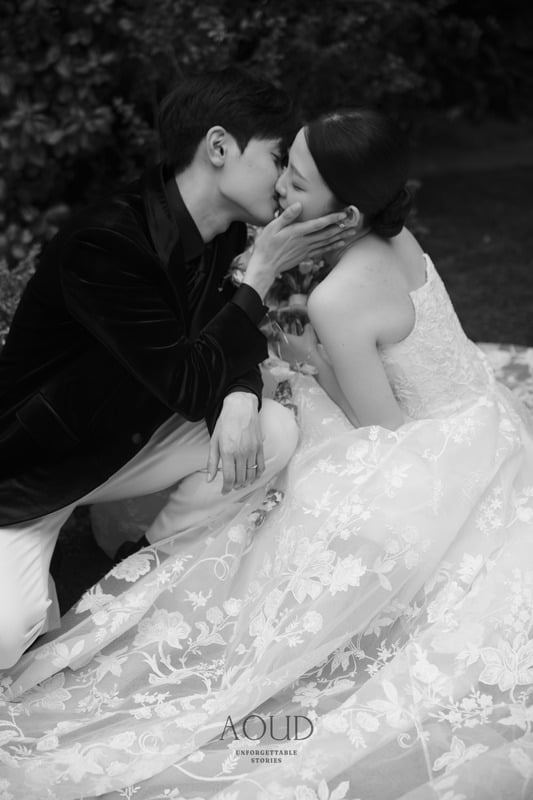
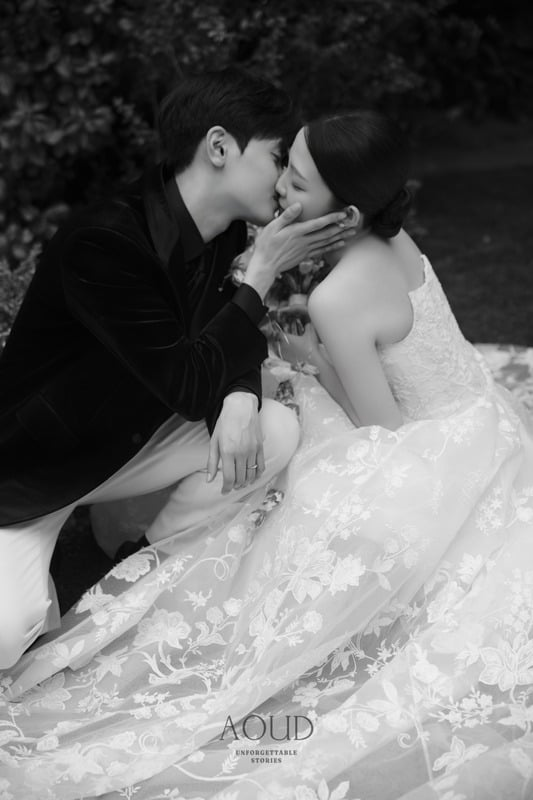
봉투 사진 2장을 클라이언트 갱신본으로 + INFORMATION 줄바꿈 정리 (JQ 요청)
클라이언트가 원본 Canva 사이트의 봉투(히어로)에 새 흑백 사진 2장을 넣었다
(액자: 키스, 폴라로이드: 웃는 컷). 런타임 DOM을 원본과 나란히 떠서 비교하면
바뀐 것은 이미지 노드 18개 중 액자 사진과 폴라로이드 사진 딱 둘 —
나머지 해시는 전부 동일하다. 미러의 봉투 마크업은 손대지 않고, 참조되는
기존 파일 자리에 원본 바이트 그대로 덮어쓴다(파일명 = 참조라 코드 변경 0):
- 2ba15ad4….jpg ← 2cd258c1….jpg (액자)
- b5583607….jpg ← 1e959628….jpg (폴라로이드)
원본도 533×800으로 내보내지만 표시 크기(90×135, 114×162 CSS px)에는 충분.
클라이언트가 액자 안 배율도 미세 조정했는데(원본이 약간 더 줌아웃) 우리
마크업은 옛 배치라 크롭이 조금 다르다 — 보기에 자연스러워 그대로 둔다.

INFORMATION 카드는 문장이 화면 폭에 따라 아무 데서나 접히던 것을 JQ님이
지정한 줄 단위로 고정한다: 각 카드 3줄(안내 2줄 + 당부 1줄). 마지막 문장
"모바일 청첩장을 통해 참석여부를 꼭 응답해주세요 !"는 303px라 375px 이하
기기에서는 물리적으로 한 줄이 안 되므로, lines()에 어절 묶음(배열이면
inline-block 스팬)을 추가해 접히더라도 "모바일 청첩장을 통해 /
참석여부를…" 어절 경계에서만 접히게 했다. 320~430 폭 실측 확인.

relayout_test 53건 × Chromium·WebKit 로컬 통과.

diff --git a/custom/relayout.js b/custom/relayout.js
@@ -138,11 +138,19 @@
   var INFO_CARDS = [
     {
       title: '식사 안내',
-      lines: ['코스요리가 좌석에 제공되는 동시예식으로 진행됩니다.', '모바일 청첩장을 통해 참석여부를 꼭 응답해주세요 !']
+      lines: [
+        '코스요리가 좌석에 제공되는',
+        '동시예식으로 진행됩니다.',
+        ['모바일 청첩장을 통해', '참석여부를 꼭 응답해주세요 !']
+      ]
     },
     {
       title: '답례품 안내',
-      lines: ['식사를 못하고 가시는 분들에게는 소정의 답례품이 준비되어있습니다.', '접수처에 꼭 알려주세요!']
+      lines: [
+        '식사를 못하고 가시는 분들에게는',
+        '소정의 답례품이 준비되어있습니다.',
+        '접수처에 꼭 알려주세요 !'
+      ]
     }
   ];
 
@@ -235,8 +243,22 @@
     return n;
   }
 
+  // A string renders as one <p>. An array renders as one <p> of inline-block
+  // phrase spans: on screens wide enough it reads as a single line, and where
+  // it cannot fit it folds at the phrase boundary instead of mid-sentence.
   function lines(parent, arr, cls) {
-    for (var i = 0; i < arr.length; i++) parent.appendChild(el('p', cls || null, arr[i]));
+    for (var i = 0; i < arr.length; i++) {
+      if (Array.isArray(arr[i])) {
+        var p = el('p', cls || null);
+        for (var j = 0; j < arr[i].length; j++) {
+          if (j) p.appendChild(document.createTextNode(' '));
+          p.appendChild(el('span', 'cg-phrase', arr[i][j]));
+        }
+        parent.appendChild(p);
+      } else {
+        parent.appendChild(el('p', cls || null, arr[i]));
+      }
+    }
     return parent;
   }
 

diff --git a/custom/relayout.css b/custom/relayout.css
@@ -431,6 +431,7 @@
 }
 .cg-doc .cg-card-title { font-size: 19px; font-weight: 700; }
 .cg-card-body { margin-top: 20px; font-size: 13.5px; line-height: 2.1; color: var(--cg-ink-soft); word-break: keep-all; }
+.cg-phrase { display: inline-block; }
 
 .cg-dots { margin-top: 20px; display: flex; justify-content: center; gap: 8px; }
 .cg-dot { width: 7px; height: 7px; border-radius: 50%; border: 0; padding: 0; background: var(--cg-line); cursor: pointer; }
